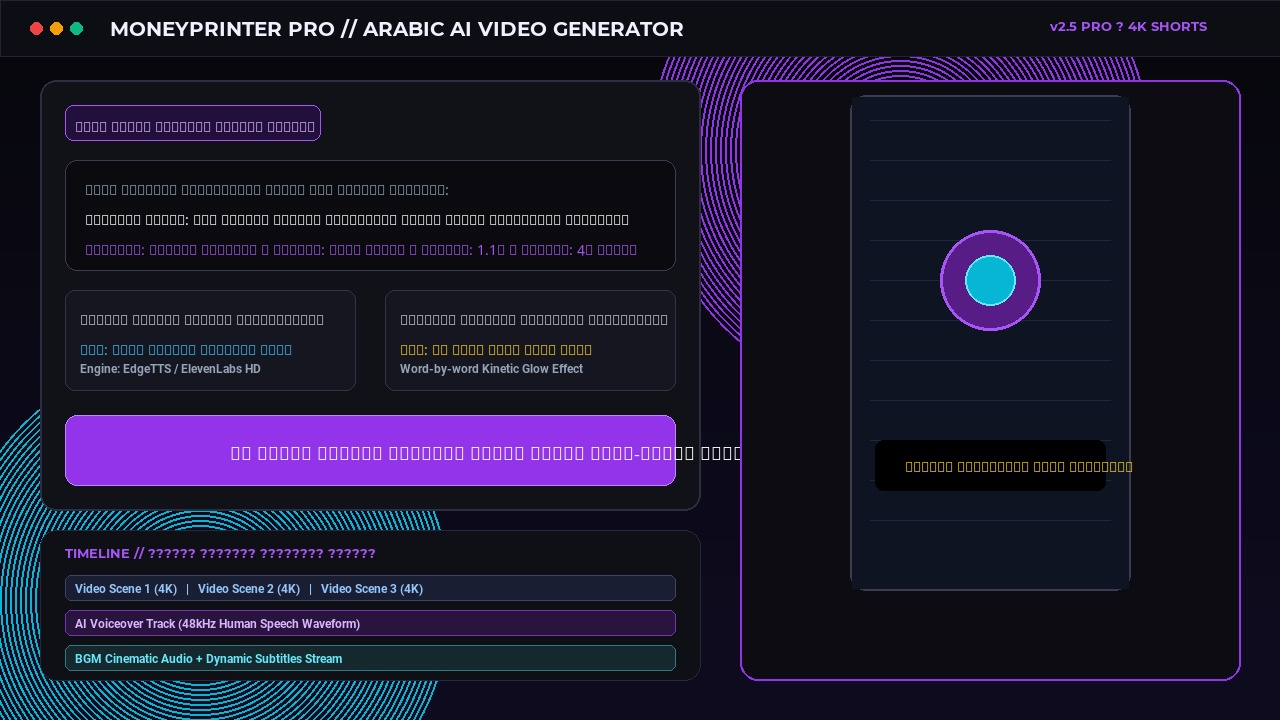
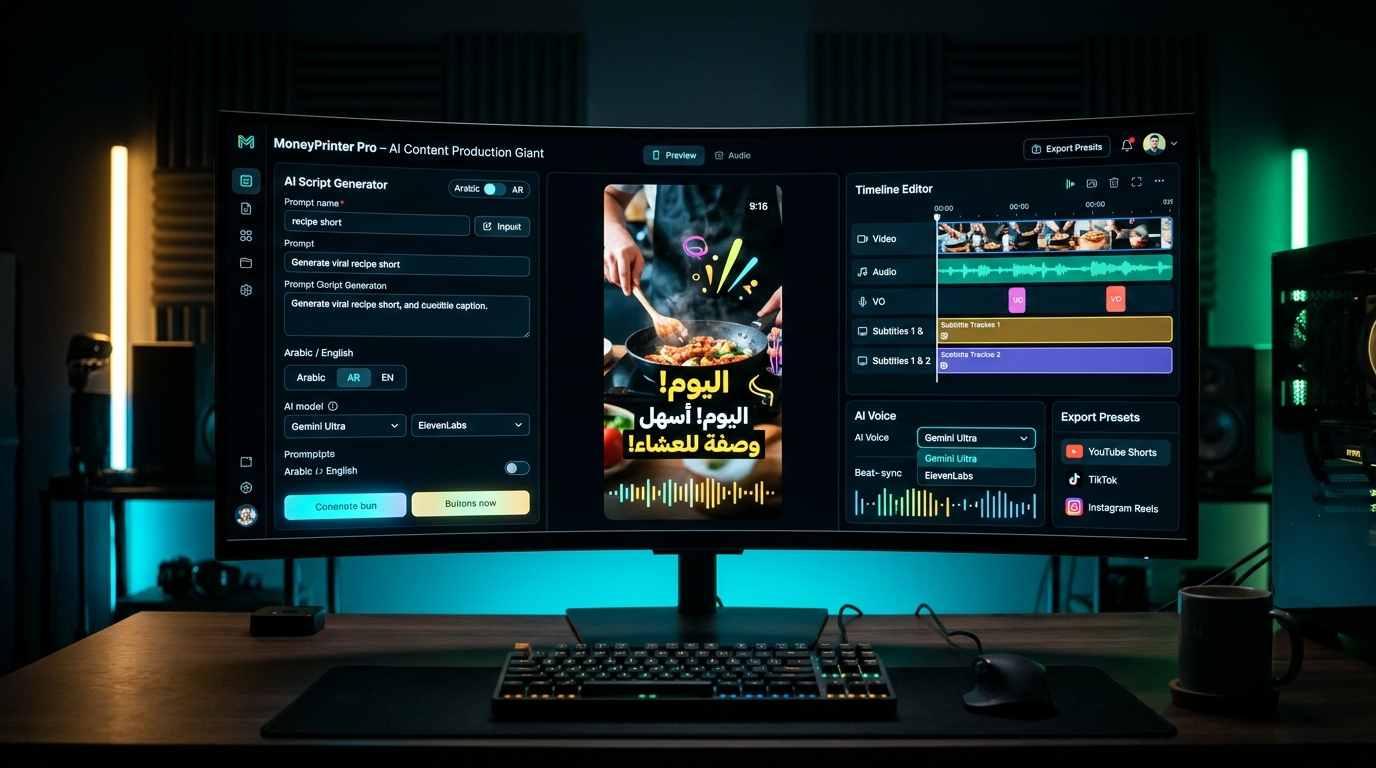
feat: update MoneyPrinter Pro with bespoke visual & pro specs, remove OpenMontage and IdeaToSpread

diff --git a/index.html b/index.html
@@ -755,76 +755,79 @@
         </div>
 
         <!-- Platform Card 2: MoneyPrinter Pro -->
-        <div class="glass-panel rounded-xl sm:rounded-2xl p-3 sm:p-5 border border-purple-500/25 hover:border-purple-500/60 transition-all flex flex-col justify-between text-right align-start-dir group">
+        <div class="glass-panel rounded-xl sm:rounded-2xl p-3 sm:p-5 border border-amber-500/30 hover:border-amber-500/70 transition-all flex flex-col justify-between text-right align-start-dir group shadow-glow-amber-sm">
           <div>
             <!-- Top Thumbnail Image (Full Width, Centered, Edge-to-Edge with Cyber Glow & Badges) -->
-            <div class="w-full aspect-[16/9] rounded-xl bg-[#08080c] border border-white/10 overflow-hidden mb-3 relative shadow-lg group-hover:border-purple-500/50 transition-all flex items-center justify-center">
+            <div class="w-full aspect-[16/9] rounded-xl bg-[#08080c] border border-white/10 overflow-hidden mb-3 relative shadow-lg group-hover:border-amber-500/50 transition-all flex items-center justify-center">
               <img 
                 src="assets/moneyprinter_pro_preview.jpg" 
-                alt="MoneyPrinter Pro Arabic AI Video Generation Studio" 
+                alt="MoneyPrinter Pro - AI Content Production Giant (Pro Edition)" 
                 class="w-full h-full object-contain object-center group-hover:scale-105 transition-all duration-700" 
                 onerror="this.src='assets/hero_architect.jpg'"
                 loading="lazy"
               />
               <div class="absolute inset-0 bg-gradient-to-t from-black/85 via-transparent to-black/20"></div>
-              <div class="absolute top-2 left-2 bg-purple-950/90 border border-purple-500/40 px-2 py-0.5 rounded-full text-[8.5px] font-mono text-purple-300 flex items-center gap-1 backdrop-blur-md shadow-sm">
-                <span class="w-1.5 h-1.5 rounded-full bg-purple-400 animate-pulse"></span>
-                <span>Autonomous AI Studio</span>
+              <div class="absolute top-2 left-2 bg-amber-950/90 border border-amber-500/40 px-2 py-0.5 rounded-full text-[8.5px] font-mono text-amber-300 flex items-center gap-1 backdrop-blur-md shadow-sm">
+                <span class="w-1.5 h-1.5 rounded-full bg-amber-400 animate-pulse"></span>
+                <span>Pro Edition // Autonomous Engine</span>
               </div>
               <div class="absolute bottom-2 right-2 text-right">
-                <span class="px-2 py-0.5 rounded-md bg-black/80 border border-white/10 text-purple-300 text-[8.5px] font-mono backdrop-blur-md">
-                  MoneyPrinter Pro // Arabic
+                <span class="px-2 py-0.5 rounded-md bg-black/85 border border-amber-500/30 text-amber-300 text-[8.5px] font-mono backdrop-blur-md">
+                  MoneyPrinter Pro // Studio v3.5
                 </span>
               </div>
             </div>
 
             <!-- Pill & Header -->
-            <div class="inline-flex items-center gap-1 px-2 py-0.5 rounded-full bg-purple-950/70 border border-purple-500/30 text-purple-300 text-[9.5px] font-mono mb-1.5">
-              <i class="fa-solid fa-wand-magic-sparkles text-purple-400 text-[10px]"></i>
-              <span data-i18n="p_mp_badge">عملاق صناعة المحتوى العربي الذاتي</span>
+            <div class="inline-flex items-center gap-1 px-2.5 py-0.5 rounded-full bg-amber-950/70 border border-amber-500/30 text-amber-300 text-[9.5px] font-mono mb-1.5">
+              <i class="fa-solid fa-crown text-amber-400 text-[10px]"></i>
+              <span data-i18n="p_mp_badge">النسخة الاحترافية المطورة // Enterprise Architecture</span>
             </div>
             
-            <h3 class="text-xs sm:text-base font-bold text-white mb-1.5 leading-snug group-hover:text-purple-300 transition-colors" data-i18n="p_mp_title">
-              عملاق صناعة المحتوى والفيديوهات القصيرة بالذكاء الاصطناعي (MoneyPrinter Pro)
+            <h3 class="text-xs sm:text-base font-bold text-white mb-2 leading-snug group-hover:text-amber-300 transition-colors" data-i18n="p_mp_title">
+              <div class="text-amber-400 font-mono text-[11px] sm:text-xs tracking-wider mb-0.5">MoneyPrinter Pro – AI Content Production Giant (Pro Edition)</div>
+              <span class="text-white text-xs sm:text-sm font-black">النسخة الاحترافية من عملاق صناعة المحتوى موني برينتر برو</span>
             </h3>
             
             <p class="text-zinc-300 text-[11px] sm:text-xs leading-relaxed mb-3" data-i18n="p_mp_desc">
-              المنظومة الاحترافية الأقوى لتوليد الفيديوهات القصيرة (Shorts, Reels, TikTok) بالذكاء الاصطناعي حصراً باللغة العربية؛ كتابة السيناريو التوليدي، اختيار المشاهد البصرية بدقة 4K، دمج التعليق الصوتي البشري المتنوع، الموسيقى التصويرية، وتوليد الترجمة الحركية الملونة آلياً للنشر الفوري.
+              إعادة ابتكار وهندسة معمارية شاملة قمنا بتطويرها لترقية النموذج الأساسي إلى محرك إنتاج ذكي متكامل؛ حيث تم استبدال لقطات Pexels بمحركات التوليد السينمائي الفائق (Google Flow Omni Flash و MiniMax-H3) لإنتاج مقاطع 9:16 بجودة 4K خالية تماماً من العلامات المائية، ودمج محركات الفويس أوفر العربية الأكثر واقعية (Gemini TTS / ElevenLabs) بلهجات وثائقية ومصرية حماسية مع ميكساج صوتي متعدد الطبقات، وهندسة محرك ترجمة حركية متزامنة بالكلمة (Word-Synced Dynamic Subtitles) بستايل هورموزي ومستر بيست، مع نظام ذكي لتخطي قيود الكوتا بالتدوير التلقائي بين الحسابات والربط المباشر بـ YouTube Shorts و TikTok.
             </p>
 
             <!-- Feature Checklist (2x2) -->
             <div class="grid grid-cols-2 gap-1.5 mb-3 text-[9.5px] sm:text-xs text-zinc-300">
               <div class="flex items-center gap-1.5 bg-black/40 p-1.5 rounded-lg border border-white/5">
-                <i class="fa-solid fa-circle-check text-purple-400 text-[10px]"></i>
-                <span data-i18n="p_mp_f1">سيناريو عربي توليدي متقن (LLMs)</span>
+                <i class="fa-solid fa-film text-amber-400 text-[10px]"></i>
+                <span data-i18n="p_mp_f1">توليد سينمائي 4K (Omni Flash + MiniMax)</span>
               </div>
               <div class="flex items-center gap-1.5 bg-black/40 p-1.5 rounded-lg border border-white/5">
-                <i class="fa-solid fa-circle-check text-purple-400 text-[10px]"></i>
-                <span data-i18n="p_mp_f2">تعليق صوتي بشري فائق الجودة</span>
+                <i class="fa-solid fa-microphone-lines text-amber-400 text-[10px]"></i>
+                <span data-i18n="p_mp_f2">فويس أوفر عربي واقعي وميكساج طبقات الصوت</span>
               </div>
               <div class="flex items-center gap-1.5 bg-black/40 p-1.5 rounded-lg border border-white/5">
-                <i class="fa-solid fa-circle-check text-purple-400 text-[10px]"></i>
-                <span data-i18n="p_mp_f3">ترجمة حركية ملونة ديناميكية</span>
+                <i class="fa-solid fa-closed-captioning text-amber-400 text-[10px]"></i>
+                <span data-i18n="p_mp_f3">ترجمة حركية متزامنة بالكلمة (Word-Sync)</span>
               </div>
               <div class="flex items-center gap-1.5 bg-black/40 p-1.5 rounded-lg border border-white/5">
-                <i class="fa-solid fa-circle-check text-purple-400 text-[10px]"></i>
-                <span data-i18n="p_mp_f4">تصدير 4K عمودي بنقرة واحدة</span>
+                <i class="fa-solid fa-rotate text-amber-400 text-[10px]"></i>
+                <span data-i18n="p_mp_f4">نظام تدوير الكوتا وتخطي الحدود (Failover)</span>
               </div>
             </div>
           </div>
 
           <!-- Actions -->
           <div class="flex flex-row items-center gap-1.5 pt-2 border-t border-white/10">
-            <a href="https://github.com/abdou25008-coder/MoneyPrinter-Pro.git" target="_blank" rel="noopener noreferrer" onclick="triggerHaptic()" class="flex-1 inline-flex items-center justify-center gap-1.5 px-2.5 py-2 rounded-lg sm:rounded-xl bg-purple-600 hover:bg-purple-500 text-white font-bold text-[10px] sm:text-xs shadow-glow-purple transition-all touch-press">
-              <i class="fa-brands fa-github text-xs"></i>
-              <span data-i18n="p_mp_btn_repo">المستودع الرسمي</span>
+            <a href="https://github.com/abdou25008-coder/MoneyPrinter-Pro.git" target="_blank" rel="noopener noreferrer" onclick="triggerHaptic()" class="flex-1 inline-flex items-center justify-center gap-1.5 px-2.5 py-2 rounded-lg sm:rounded-xl bg-amber-600 hover:bg-amber-500 text-zinc-950 font-bold text-[10px] sm:text-xs shadow-glow-amber transition-all touch-press">
+              <i class="fa-brands fa-github text-xs text-zinc-950"></i>
+              <span data-i18n="p_mp_btn_repo">المستودع الرسمي المطور</span>
             </a>
-            <a href="https://wa.me/201092519210?text=أود%20طلب%20عرض%20توضيحي%20لعملاق%20صناعة%20المحتوى%20العربي%20MoneyPrinter%20Pro" target="_blank" rel="noopener noreferrer" onclick="triggerHaptic()" class="flex-1 inline-flex items-center justify-center gap-1.5 px-2.5 py-2 rounded-lg sm:rounded-xl bg-white/5 hover:bg-white/10 text-zinc-300 font-bold text-[10px] sm:text-xs border border-white/10 transition-all touch-press">
+            <a href="https://wa.me/201092519210?text=أود%20طلب%20عرض%20توضيحي%20للنسخة%20الاحترافية%20من%20MoneyPrinter%20Pro" target="_blank" rel="noopener noreferrer" onclick="triggerHaptic()" class="flex-1 inline-flex items-center justify-center gap-1.5 px-2.5 py-2 rounded-lg sm:rounded-xl bg-white/5 hover:bg-white/10 text-zinc-300 font-bold text-[10px] sm:text-xs border border-white/10 transition-all touch-press">
               <i class="fa-brands fa-whatsapp text-emerald-400 text-xs"></i>
-              <span data-i18n="p_mp_btn_demo">طلب ديمو</span>
+              <span data-i18n="p_mp_btn_demo">طلب ديمو تشغيلي</span>
             </a>
           </div>
         </div>
+
+        
 
         <!-- Platform Card 3: Logistics & Fleet Platform -->
         <div class="glass-panel rounded-xl sm:rounded-2xl p-3 sm:p-5 border border-cyan-500/25 hover:border-cyan-500/60 transition-all flex flex-col justify-between text-right align-start-dir group">
@@ -1121,94 +1124,7 @@
               <span>مستودع المحرك (AppCraft)</span>
             </a>
           </div>
-        </div>
-
-        <!-- Platform Card 9: Idea to Spread -->
-        <div class="glass-panel rounded-xl sm:rounded-2xl p-3 sm:p-5 border border-amber-500/25 hover:border-amber-500/60 transition-all flex flex-col justify-between text-right align-start-dir group">
-          <div>
-            <div class="w-full aspect-[16/9] rounded-xl bg-[#08080c] border border-white/10 overflow-hidden mb-3 relative shadow-lg group-hover:border-amber-500/50 transition-all flex items-center justify-center">
-              <img src="assets/ideatospread_preview.jpg" alt="Idea To Spread" class="w-full h-full object-cover group-hover:scale-105 transition-all duration-700" onerror="this.src='assets/hero_architect.jpg'" loading="lazy" />
-              <div class="absolute inset-0 bg-gradient-to-t from-black/85 via-transparent to-black/20"></div>
-              <div class="absolute top-2 left-2 bg-amber-950/90 border border-amber-500/40 px-2 py-0.5 rounded-full text-[8.5px] font-mono text-amber-300 flex items-center gap-1 backdrop-blur-md shadow-sm">
-                <span class="w-1.5 h-1.5 rounded-full bg-amber-400 animate-pulse"></span>
-                <span>Growth Ecosystem</span>
-              </div>
-            </div>
-            
-            <div class="inline-flex items-center gap-1 px-2 py-0.5 rounded-full bg-amber-950/70 border border-amber-500/30 text-amber-300 text-[9.5px] font-mono mb-1.5">
-              <i class="fa-solid fa-lightbulb text-amber-400 text-[10px]"></i>
-              <span>إطار عمل متكامل للمشاريع الرقمية</span>
-            </div>
-            
-            <h3 class="text-xs sm:text-base font-bold text-white mb-1.5 leading-snug group-hover:text-amber-300 transition-colors">
-              من الفكرة للإبداع للانتشار (Idea to Spread)
-            </h3>
-            
-            <p class="text-zinc-300 text-[11px] sm:text-xs leading-relaxed mb-3">
-              منهجية ومنظومة عمل متكاملة لاحتضان وإطلاق المشاريع؛ تبدأ ببلورة "الفكرة"، وتنتقل لمرحلة "الإبداع" في التصميم المعماري والتنفيذ البرمجي، وتتوج بخوارزميات "الانتشار" الرقمي لتحقيق أعلى وصول وتأثير في السوق.
-            </p>
-
-            <div class="grid grid-cols-2 gap-1.5 mb-3 text-[9.5px] sm:text-xs text-zinc-300">
-              <div class="flex items-center gap-1.5 bg-black/40 p-1.5 rounded-lg border border-white/5">
-                <i class="fa-solid fa-seedling text-amber-400 text-[10px]"></i>
-                <span>احتضان وتطوير المنتجات (Incubation)</span>
-              </div>
-              <div class="flex items-center gap-1.5 bg-black/40 p-1.5 rounded-lg border border-white/5">
-                <i class="fa-solid fa-chart-pie text-amber-400 text-[10px]"></i>
-                <span>استراتيجيات نمو وانتشار ذكية</span>
-              </div>
-            </div>
-          </div>
-        </div>
-
-
-        
-        <!-- Platform Card 8: OpenMontage -->
-        <div class="glass-panel rounded-xl sm:rounded-2xl p-3 sm:p-5 border border-pink-500/25 hover:border-pink-500/60 transition-all flex flex-col justify-between text-right align-start-dir group">
-          <div>
-            <div class="w-full aspect-[16/9] rounded-xl bg-[#08080c] border border-white/10 overflow-hidden mb-3 relative shadow-lg group-hover:border-pink-500/50 transition-all flex items-center justify-center">
-              <img src="assets/openmontage_preview.jpg" alt="OpenMontage" class="w-full h-full object-contain group-hover:scale-105 transition-all duration-700" onerror="this.src='assets/hero_architect.jpg'" loading="lazy" />
-              <div class="absolute inset-0 bg-gradient-to-t from-black/85 via-transparent to-black/20"></div>
-              <div class="absolute top-2 left-2 bg-pink-950/90 border border-pink-500/40 px-2 py-0.5 rounded-full text-[8.5px] font-mono text-pink-300 flex items-center gap-1 backdrop-blur-md shadow-sm">
-                <span class="w-1.5 h-1.5 rounded-full bg-pink-400 animate-pulse"></span>
-                <span>AI Video Studio</span>
-              </div>
-            </div>
-            
-            <div class="inline-flex items-center gap-1 px-2 py-0.5 rounded-full bg-pink-950/70 border border-pink-500/30 text-pink-300 text-[9.5px] font-mono mb-1.5">
-              <i class="fa-solid fa-film text-pink-400 text-[10px]"></i>
-              <span>استوديو المونتاج الذاتي المتكامل</span>
-            </div>
-            
-            <h3 class="text-xs sm:text-base font-bold text-white mb-1.5 leading-snug group-hover:text-pink-300 transition-colors">
-              منظومة OpenMontage لإنتاج الفيديو الذكي
-            </h3>
-            
-            <p class="text-zinc-300 text-[11px] sm:text-xs leading-relaxed mb-3">
-              منظومة توليدية ضخمة مصممة لأتمتة صناعة محتوى اليوتيوب (Shorts/Reels) بدقة سينمائية؛ تدعم توليد مقاطع ترويجية وتسجيلات وثائقية (مثل فيديوهات كائنات الأعماق لقناة Fathom X) من مجرد سطر نصي، مع ربط مباشر بحسابات السوشيال ميديا للنشر الآلي والذاتي.
-            </p>
-
-            <div class="grid grid-cols-2 gap-1.5 mb-3 text-[9.5px] sm:text-xs text-zinc-300">
-              <div class="flex items-center gap-1.5 bg-black/40 p-1.5 rounded-lg border border-white/5">
-                <i class="fa-solid fa-clapperboard text-pink-400 text-[10px]"></i>
-                <span>إنتاج 9:16 Shorts آلياً بجودة 4K</span>
-              </div>
-              <div class="flex items-center gap-1.5 bg-black/40 p-1.5 rounded-lg border border-white/5">
-                <i class="fa-brands fa-facebook text-pink-400 text-[10px]"></i>
-                <span>النشر التلقائي عبر الشبكات (Auto-Publish)</span>
-              </div>
-            </div>
-          </div>
-          
-          <div class="flex flex-row items-center gap-1.5 pt-2 border-t border-white/10">
-            <a href="https://github.com/calesthio/OpenMontage.git" target="_blank" rel="noopener noreferrer" class="flex-1 inline-flex items-center justify-center gap-1.5 px-2.5 py-2 rounded-lg sm:rounded-xl bg-pink-600 hover:bg-pink-500 text-white font-bold text-[10px] sm:text-xs shadow-glow-purple transition-all touch-press">
-              <i class="fa-brands fa-github text-[9px]"></i>
-              <span>تصفح الكود الرسمي</span>
-            </a>
-          </div>
-        </div>
-
-      </div>
+        </div></div>
     </div>
   </section>
 
